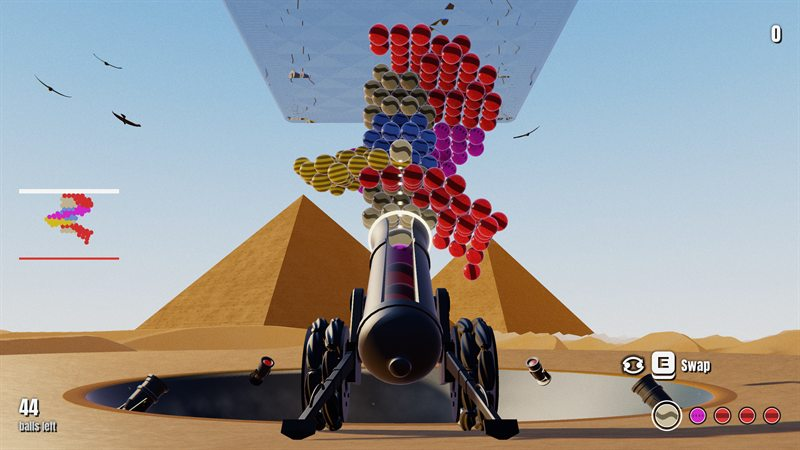
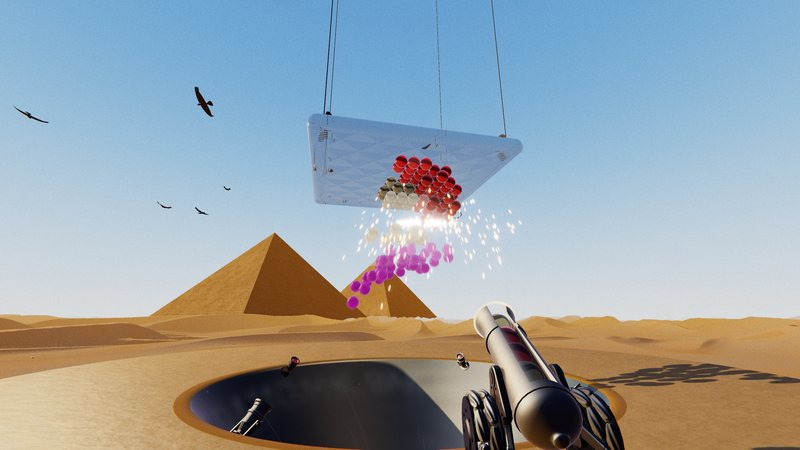
Website gallery in motion: eight stills of the capture mode's demo from stated cameras, no HUD, on Ultra (#922)
The gallery was eight frames from behind the gun at score 0. Each picture is now a moment of the
benchmark's action (a group falling, a shot in flight, a cut striking) from a camera framed for it,
taken by the new Tools/web-gallery.ps1 from gallery.json's "shot" (game time, campos, camtarget, fov)
through web-capture.ps1 -Seconds 0 at 2560x1440. Two runs gave all sixteen JPEGs byte for byte.
web-screenshots.ps1 now takes only the big picture (Meander, HUD and all) by default.

diff --git a/docs/website.md b/docs/website.md
@@ -21,7 +21,7 @@ npx eleventy                # the plain files in Web\_site, which is all the hos
 |---|---|
 | `src/index.njk` | The page: the logo and pitch, the big picture, how it plays, the numbers, the live cannon, the gallery, what else is in it, the download steps for Windows and the Raspberry Pi 5 |
 | `src/_data/site.json` | The links (the newest release, the repository), the description the search engines and link previews show, the counts the page prints (levels, chapters, scenes) and the video slot |
-| `src/_data/gallery.json` | The gallery's pictures in order, each with its level, chapter and caption |
+| `src/_data/gallery.json` | The gallery's pictures in order, each with its level, chapter, caption and the moment and camera `Tools/web-gallery.ps1` takes it with |
 | `src/_data/built.js` | The day of the build (Prague time), which the footer prints as "Last updated" |
 | `src/_includes/base.njk` | The HTML shell, the link-preview tags, the feed's autodiscovery link and the footer |
 | `src/_includes/bar.njk`, `src/_includes/post.njk` | The slim header (logo, Blog, Download) and the layout of a post: date and topics, the title, the text, the newer and older post, the way back |
@@ -142,18 +142,21 @@ The file name is the address (`/blog/<file name>/`) and the first heading of the
 
 ## The pictures
 
-**Every picture is the game itself at the High tier, and they are retaken for every release**, next to the release's own screenshot (`Tools/release-screenshot.ps1`, `Images/releases/`):
+**Every picture is the game itself, and they are retaken for every release**, next to the release's own screenshot (`Tools/release-screenshot.ps1`, `Images/releases/`). There are two kinds, from two scripts:
 
 ```powershell
-.\Tools\web-screenshots.ps1          # Meander (the big picture) and the gallery's eight levels
-.\Tools\web-screenshots.ps1 -Levels Reel,Vortex
+.\Tools\web-screenshots.ps1          # the big picture: Meander as it is played, HUD and all
+.\Tools\web-gallery.ps1              # the gallery's eight: a moment in motion from a stated camera, no HUD (#922)
+.\Tools\web-gallery.ps1 -Levels Reel,Vortex -NoBuild
 ```
 
-It builds the Game in Release into a folder of its own and plays each level on a scratch profile whose settings turn the tutorial cards, the intro logo and the FPS counter off and hold High (so no first-time card covers the picture, nothing touches your save and nothing reaches the online boards). The game runs in a **16:9 window** (the largest of 3840x2160, 2560x1440, 1920x1080 and 1600x900 the display's working area holds) and the frame is written to `Web/src/img/shots/<level>-1600.jpg` and `-800.jpg`. ⚠ Not fullscreen cut to 16:9: the HUD is laid out to the window's edges, so on the 3840x1600 desktop the crop lost the score, the balls left and the magazine and halved the power-up icons. A level brings its own scene; the magazine's deal is pinned by `-Seed`. Look at every picture before committing it: a level that opens on a camera cinematic photographs the cinematic (Trefoil does).
+**The big picture** (`web-screenshots.ps1`) builds the Game in Release into a folder of its own and plays the level on a scratch profile whose settings turn the tutorial cards, the intro logo and the FPS counter off and hold High (so no first-time card covers the picture, nothing touches your save and nothing reaches the online boards). The game runs in a **16:9 window** (the largest of 3840x2160, 2560x1440, 1920x1080 and 1600x900 the display's working area holds) and the frame is written to `Web/src/img/shots/<level>-1600.jpg` and `-800.jpg`. ⚠ Not fullscreen cut to 16:9: the HUD is laid out to the window's edges, so on the 3840x1600 desktop the crop lost the score, the balls left and the magazine and halved the power-up icons. A level brings its own scene; the magazine's deal is pinned by `-Seed`. Look at every picture before committing it: a level that opens on a camera cinematic photographs the cinematic (Trefoil does).
+
+**The gallery** (`web-gallery.ps1`) is the owner's ask of #922: not eight pictures from behind the gun at score 0, but the game moving, from a camera set for the picture. Each is one still of the capture mode (`web-capture.ps1 -Seconds 0`, "Filming the game" above) during the benchmark's action (`-Demo`): a group falling, a shot in flight, a cut striking, at the **Ultra** tier in a 2560x1440 window where the display holds one. What to take is `gallery.json`'s `shot` for each entry: `from`, the game time of the frame, and `campos`, `camtarget`, `fov`, the camera. The capture's world repeats exactly, so the same entry on the same build gives the same file byte for byte (measured: all sixteen JPEGs of two runs identical); the window size and the tier change the picture's sharpness, not the world. **A change to the physics, the demo's aim or a level moves what happens at a given second**, so look at every picture: a moment that showed a group falling may show an empty sky on the next build. To find a new moment, film the level's demo from the entry's camera (`web-capture.ps1 -Demo -Fps 15 -From 8 -Seconds 16 -NoEncode -KeepFrames`) and take the frame's time: frame *n* of a window from *F* is game time ⌈15 *F*⌉ / 15 + (*n* − 1) / 15. The rate stays 15: the demo's shots are checked once a frame, so the same second at another rate can be another world. Vortex's demo drops nothing worth a picture, so its still is the scene, the planet and the nebula over the cluster, with no moment in it.
 
 The logo is `Images/logo/bs3d-logo-2048.png` scaled to 1000 and 600 px as WebP; the link-preview picture (`img/og-meander.jpg`, 1200×630) is Meander's frame cut to that shape.
 
-**Weight** (measured on the first build): 28 files, 3.7 MB. The first screen on a desktop is about 600 KB (the page, its stylesheet, the Anton font at 171 KB, the logo at 182 KB and the big picture at 226 KB); the gallery's eight 800 px pictures, 690 KB together, load as they scroll into view. With the first five posts a build is 39 files and 4.1 MB: a post's page is about 8 KB, the feed about 30 KB, the posts' own pictures (`img/blog`) 0.4 MB and their five thumbnails (`img/blog/thumbs`) 0.1 MB, all loaded lazily, and nothing on the landing page's first screen changed. The sixth post's pictures (`img/blog/five-scenes-that-started-as-ai-pictures`, 33 files, 3.8 MB: seven before/after pairs at 800 and 1600 px and five references) load about 3.0 MB on a desktop and 1.3 MB on a phone, lazily, and its page is 24 KB. The seventh post's eight charts (`img/blog/two-and-a-half-hours-of-play`, 0.53 MB) load 0.22 MB on a desktop and 0.16 MB on a phone, lazily. The eighth post's three captures (`img/blog/light-cycles-from-a-hash-and-a-strip`, 6 files, 0.91 MB at 800 and 1600 px, taken from the Testbed with `scene=grid sceneseed=0` at `shot=10` and the text overlay hidden by `at=1:F12`) are 0.69 MB at the 1600 px size a desktop picks and 0.23 MB at the 800 px size a phone picks (the files' sizes, not a browser's measurement), and its page is 14 KB. The ninth post's nine pictures (`img/blog/logos-of-studios-that-never-existed`, 0.74 MB: 960-pixel JPEGs a model drew, two frames of the game they were painted over, a collage of six corners and one strip, none with a `srcset`) all load lazily, and its page is 18 KB.
+**Weight** (measured on the first build): 28 files, 3.7 MB. The first screen on a desktop is about 600 KB (the page, its stylesheet, the Anton font at 171 KB, the logo at 182 KB and the big picture at 226 KB); the gallery's eight 800 px pictures, 690 KB together, load as they scroll into view (since #922's retake, 0.52 MB). With the first five posts a build is 39 files and 4.1 MB: a post's page is about 8 KB, the feed about 30 KB, the posts' own pictures (`img/blog`) 0.4 MB and their five thumbnails (`img/blog/thumbs`) 0.1 MB, all loaded lazily, and nothing on the landing page's first screen changed. The sixth post's pictures (`img/blog/five-scenes-that-started-as-ai-pictures`, 33 files, 3.8 MB: seven before/after pairs at 800 and 1600 px and five references) load about 3.0 MB on a desktop and 1.3 MB on a phone, lazily, and its page is 24 KB. The seventh post's eight charts (`img/blog/two-and-a-half-hours-of-play`, 0.53 MB) load 0.22 MB on a desktop and 0.16 MB on a phone, lazily. The eighth post's three captures (`img/blog/light-cycles-from-a-hash-and-a-strip`, 6 files, 0.91 MB at 800 and 1600 px, taken from the Testbed with `scene=grid sceneseed=0` at `shot=10` and the text overlay hidden by `at=1:F12`) are 0.69 MB at the 1600 px size a desktop picks and 0.23 MB at the 800 px size a phone picks (the files' sizes, not a browser's measurement), and its page is 14 KB. The ninth post's nine pictures (`img/blog/logos-of-studios-that-never-existed`, 0.74 MB: 960-pixel JPEGs a model drew, two frames of the game they were painted over, a collage of six corners and one strip, none with a `srcset`) all load lazily, and its page is 18 KB.
 
 ## Publishing a change
 

diff --git a/CLAUDE.md b/CLAUDE.md
@@ -99,7 +99,7 @@ Each constraint is shared by two balls, so `PhysicsBall` stores handles in three
 | Map/level JSON, the map editor, the icon, what a run says it is | `docs/formats-and-tools.md` | The map, `Level` and `LevelSet` formats and their System.Text.Json handling, the map editor's render pipeline and the note on the scene-config panel it no longer has, the executables' application icon, the `[build]` lines every run opens with |
 | Building, CI, the release, the tools and the root config files | `docs/build-and-release.md` | The platform and the shaders' one build, the four solutions and four root files, the three workflows and the release's measured size, the eight tools and their commands |
 | Which library holds what, and what an executable must not copy | `docs/libraries.md` | The full inventory of `Prazsky.Core`, `Prazsky.BS3D`, `Prazsky.BS3D.Physics` and the three executables |
-| The game's website (`Web/`, bs3d.winphonew.eu) | `docs/website.md` | The static landing page and its blog-to-be, its pictures (`Tools/web-screenshots.ps1`, retaken each release) and its looping clips (`Tools/web-capture.ps1`, the Game's capture mode), and how it is published to the Webglobe hosting |
+| The game's website (`Web/`, bs3d.winphonew.eu) | `docs/website.md` | The static landing page and its blog-to-be, its pictures (`Tools/web-screenshots.ps1` and `Tools/web-gallery.ps1`, retaken each release) and its looping clips (`Tools/web-capture.ps1`, the Game's capture mode), and how it is published to the Webglobe hosting |
 | Why a repo convention exists | `docs/repo-conventions.md` | The reasons and incidents behind the immediacy of merges, LF line endings, branches without PRs and deleting merged branches |
 
 `BestPractices.md` holds the per-frame render hygiene in full, each rule with the incident that taught it — plus the two rules that are not about frames at all: §9, that a confirmed inefficiency is not automatically worth fixing, and §10, that **a check's answer is evidence only once its failing branch has been seen to fire on real data**.
